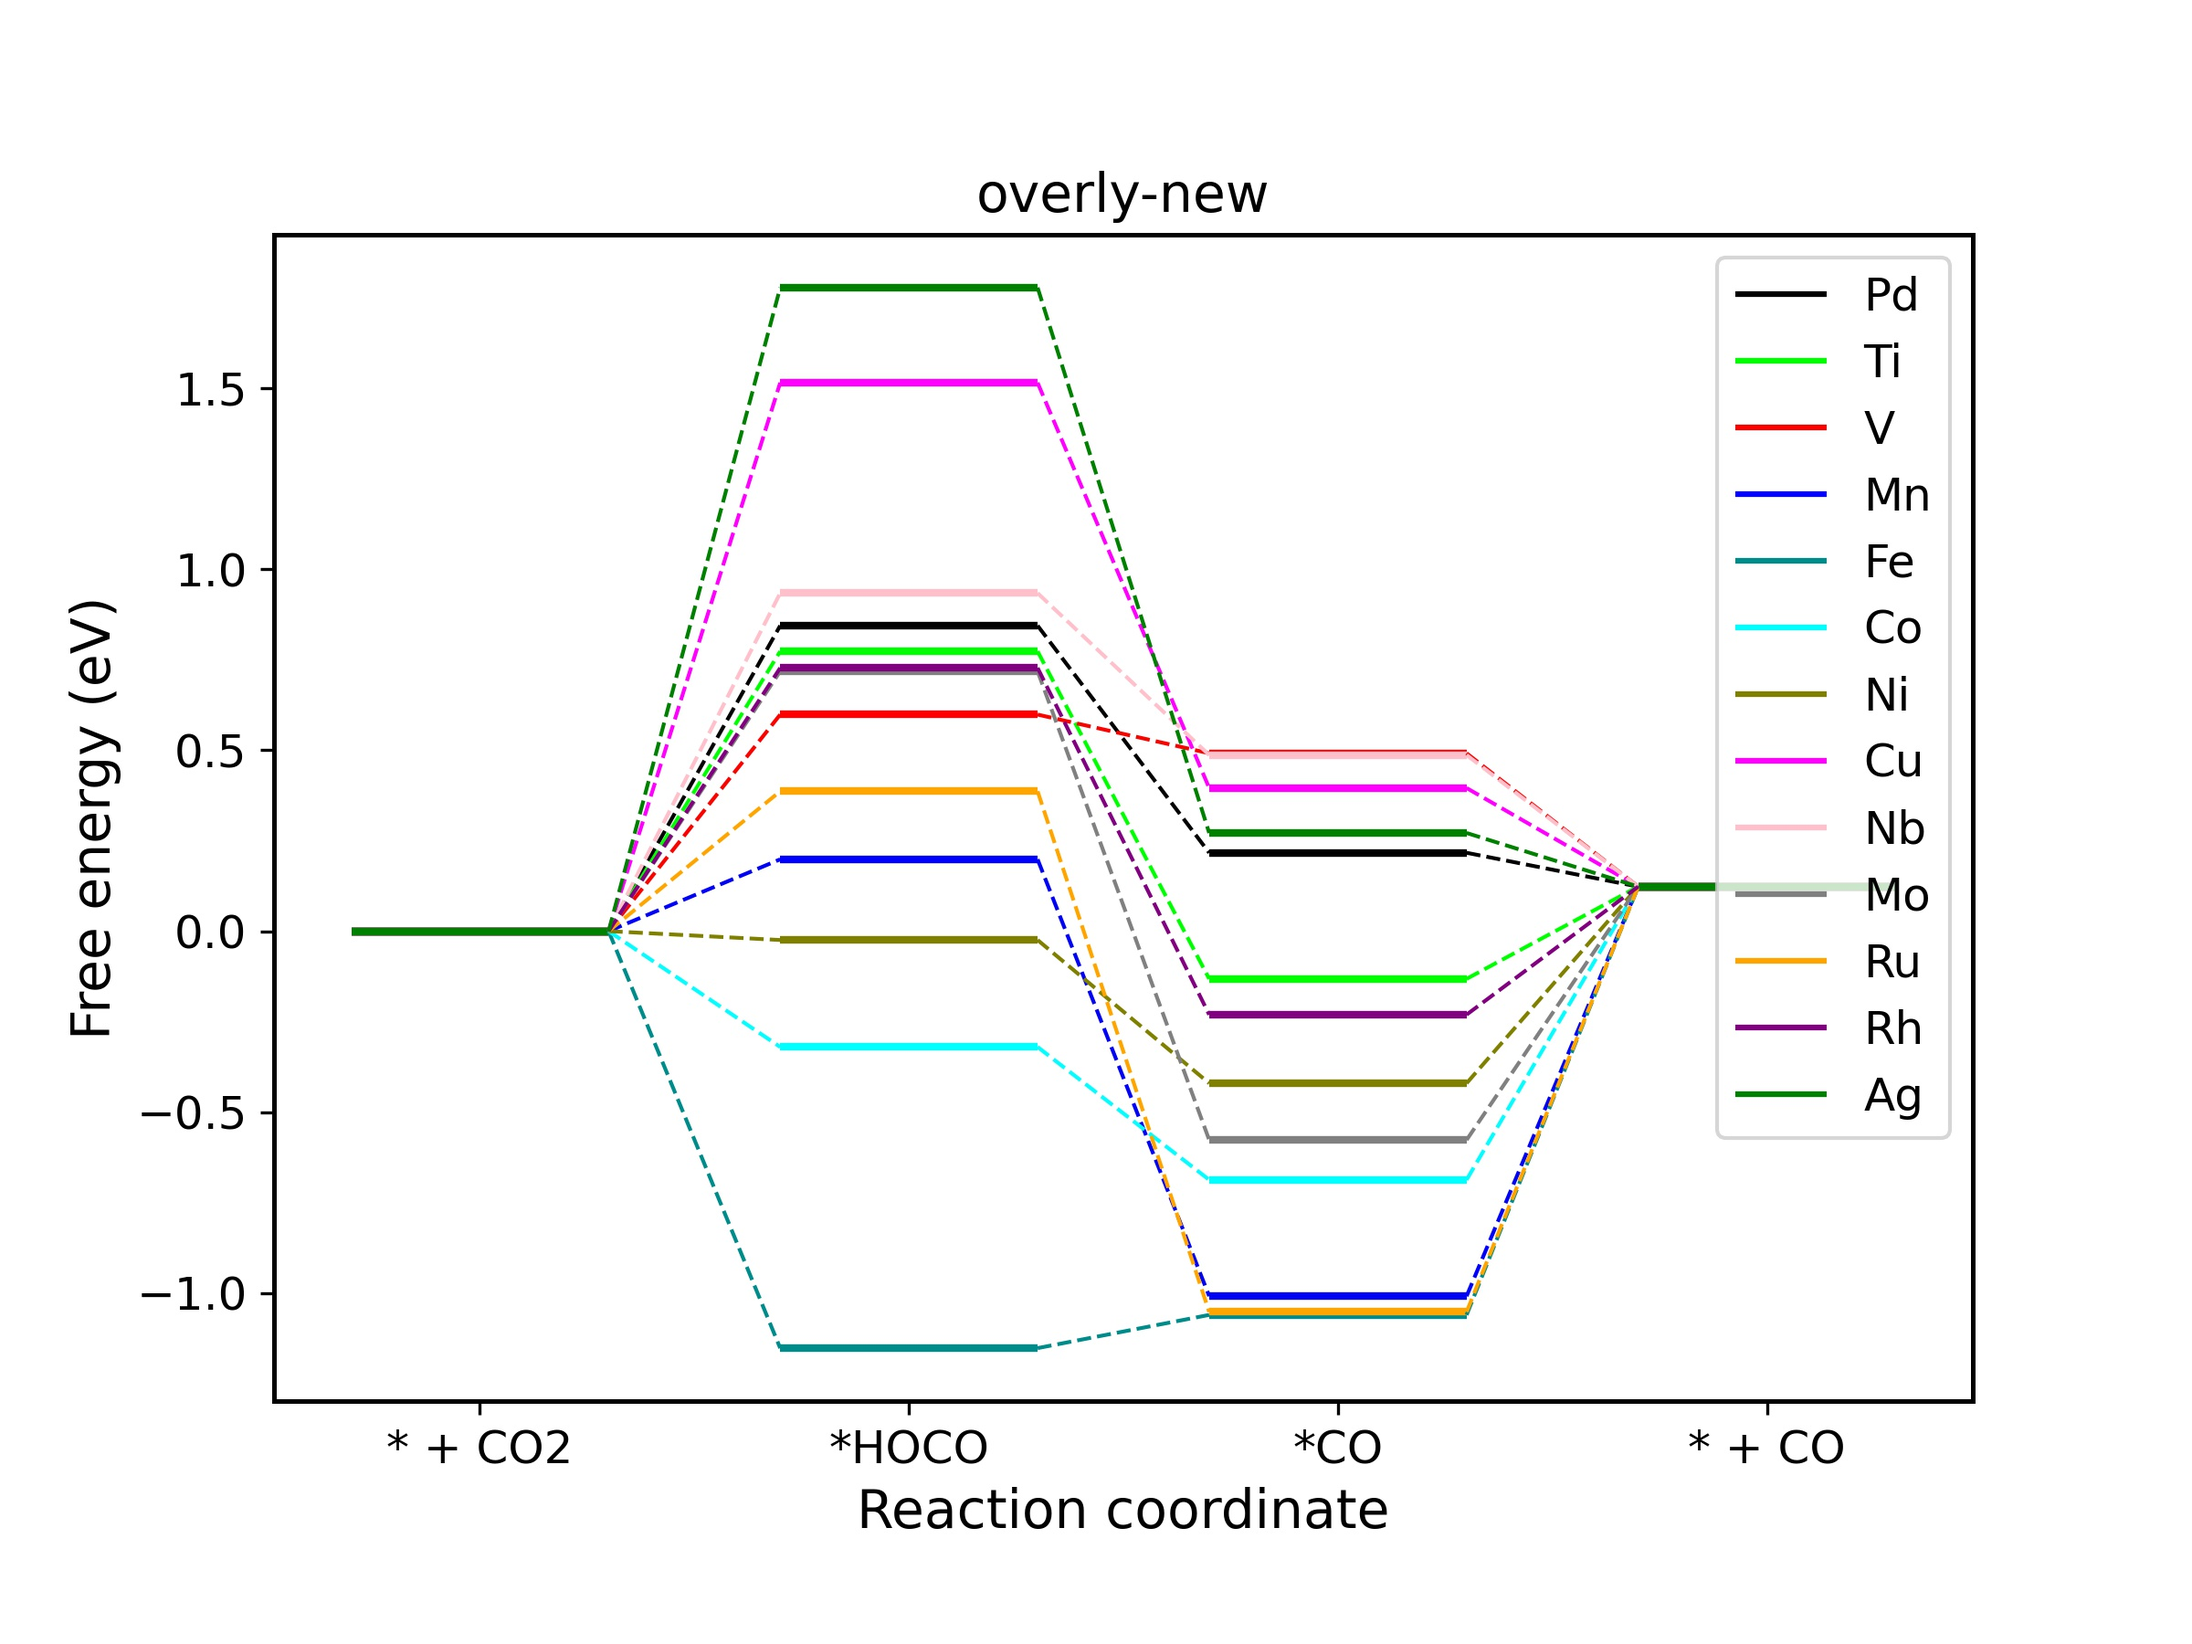
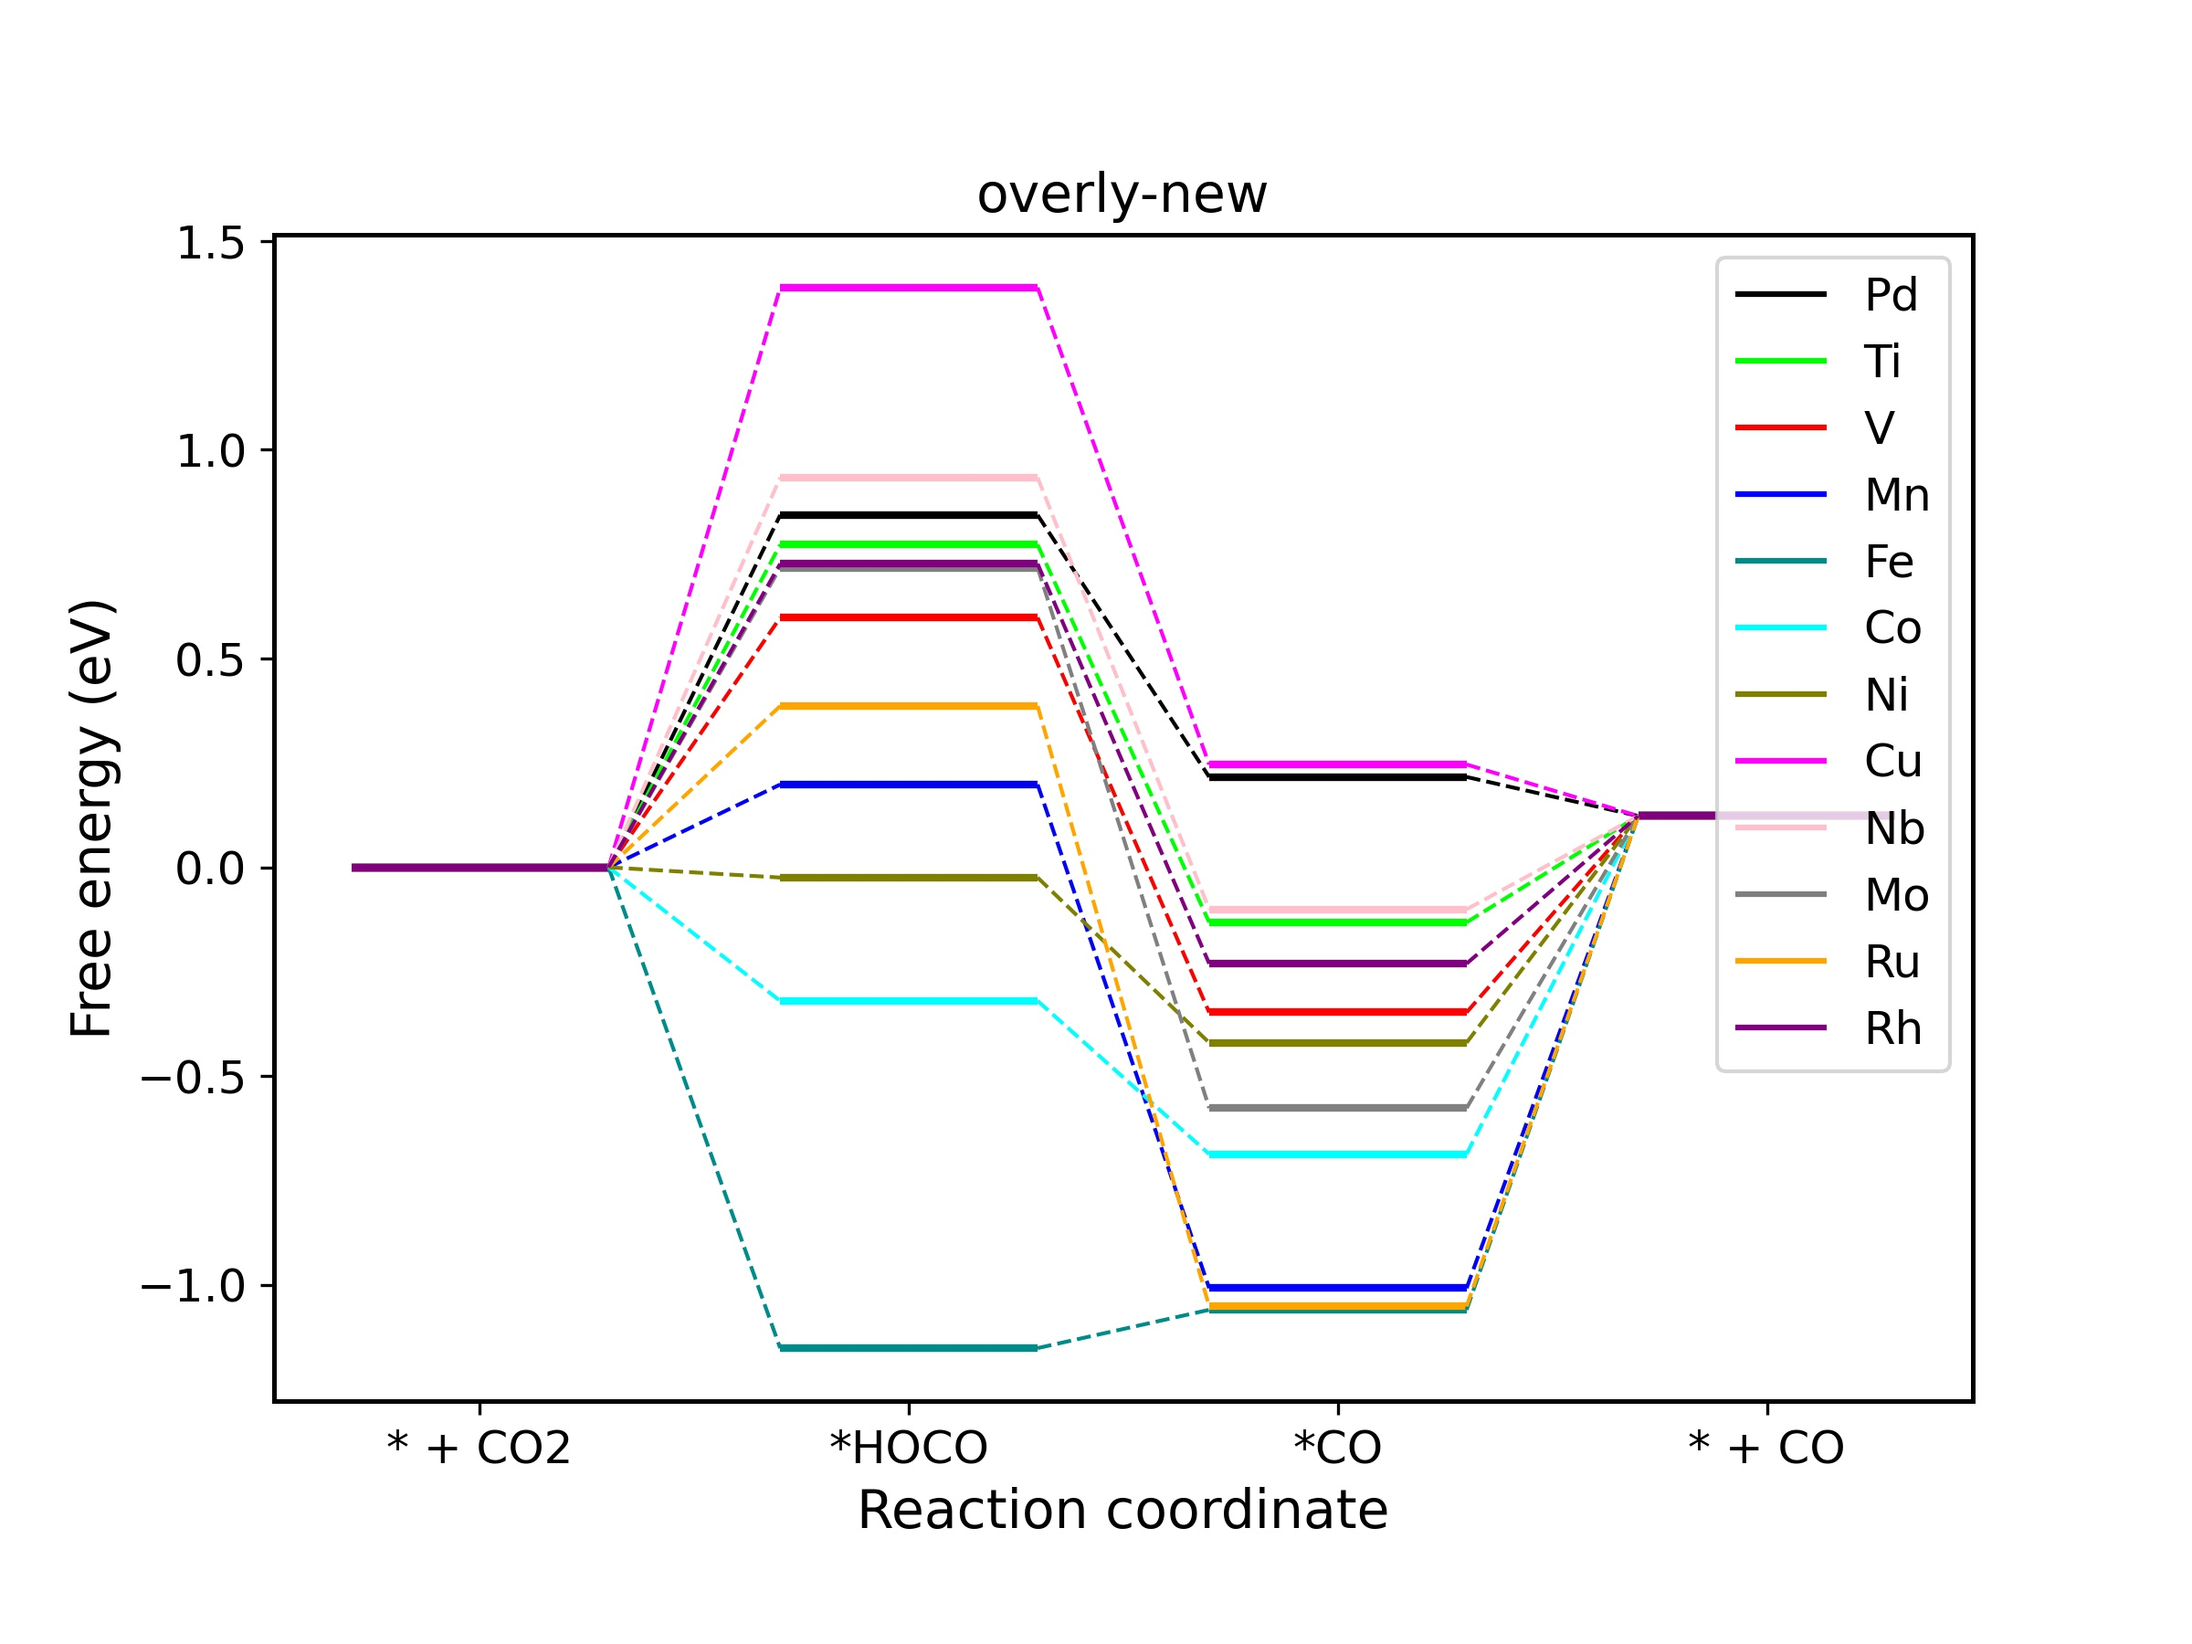
updated data

diff --git a/plotpackage/myproject/CO2RR_plot.py b/plotpackage/myproject/CO2RR_plot.py
@@ -21,9 +21,11 @@ min_col = 1 #1st column in excel
 max_col = 5 #5th column in excel
 
 #change it only for excel
-sheet = 'overly-new' #Sheet1 by defaut
-min_row = 20 #1st column in excel
-max_row = 37 #9st column in excel
+sheet = 'triangle' #Sheet1 by defaut
+# min_row = 20 #1st column in excel
+# max_row = 37 #9st column in excel
+min_row = 1 #1st column in excel
+max_row = 18 #9st column in excel
 
 #saved figure name
 figName1 = '../pictures/CO2RR_FreeEnergy_' + sheet + '.jpg'  #free energy diagram name
@@ -42,9 +44,9 @@ del_ele = []
 # del_ele = ['Zn', 'Y', 'Zr']
 # del_ele = ['Zn', 'Y', 'Zr'] #remove distortion for parallelogram
 # del_ele += ['Sc', 'Ti', 'V', 'Mn', 'Zn', 'Y', 'Zr', 'Nb', 'Mo'] #del double bonds for parallelogram
-del_ele = ['Sc', 'Zn', 'Y', 'Zr']
 # del_ele = ['Sc', 'Zn', 'Y', 'Ag', 'Zr', 'Cu'] ##'Fe', 'Ni', 'Co' #remove distortion for overlayer
 # del_ele += ['Sc', 'Ti', 'V', 'Mn', 'Fe', 'Co', 'Ni', 'Y', 'Zr'] #del double bonds for overlayer
+del_ele = ['Sc', 'Zn', 'Y', 'Ag', 'Zr'] #remove distortion for triangle
 del_rows = [observationName.index(each)+2 for each in del_ele]
 ### del_rows = [10, 12, 13, 18]  #delete according to rows in excel
 del_list = [x -2 for x in del_rows]

diff --git a/plotpackage/myproject/CO2RR_plot_binding_energy_multi.py b/plotpackage/myproject/CO2RR_plot_binding_energy_multi.py
@@ -44,7 +44,7 @@ del_ele = []
 # del_ele += ['Sc', 'Ti', 'V', 'Mn', 'Zn', 'Y', 'Zr', 'Nb', 'Mo'] #del double bonds for parallelogram
 # del_ele = ['Sc', 'Zn', 'Y', 'Zr'] #remove distortion for overlayer
 # del_ele += ['Sc', 'Ti', 'V', 'Mn', 'Fe', 'Co', 'Ni', 'Y', 'Zr'] #del double bonds for overlayer
-del_ele = ['Sc', 'Zn', 'Y', 'Zr', 'Ag', 'Cu', 'Ti'] #remove distortion for triangle
+del_ele = ['Sc', 'Zn', 'Y', 'Ag', 'Zr'] #remove distortion for triangle
 del_rows = [observationName.index(each)+2 for each in del_ele]
 ### del_rows = [10, 12, 13, 18]  #delete according to rows in excel
 del_list = [x -2 for x in del_rows]
